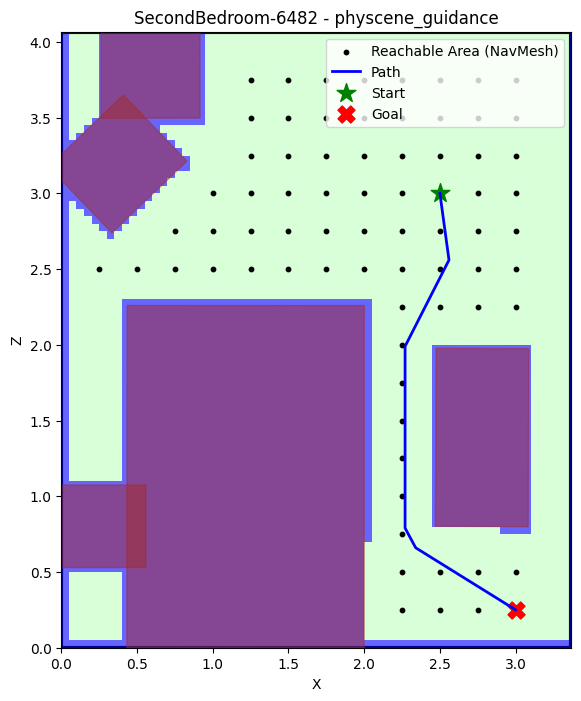
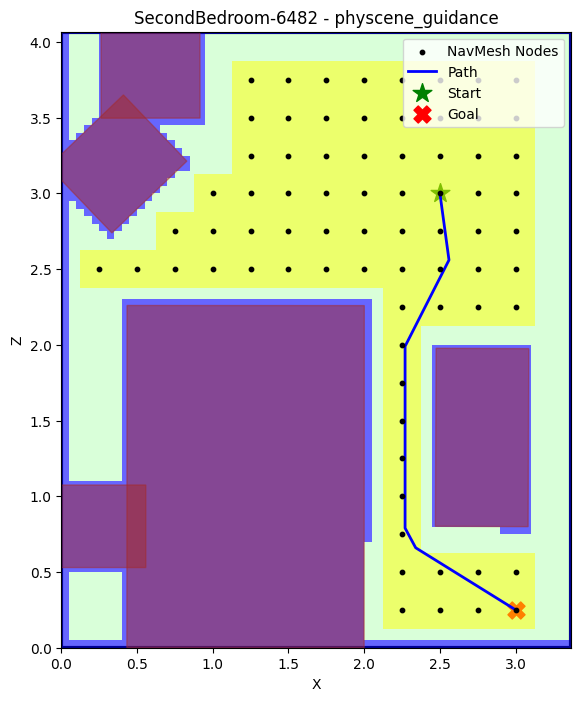
update

Changed region(s): [[0.1239, 0.0599, 0.9604, 0.8987]]

diff --git a/plot_path.py b/plot_path.py
@@ -186,9 +186,14 @@ for folder in folders:
         
     # Also plot the valid positions if desired
     if valid_positions:
+        # Draw the 0.25m x 0.25m Walkable Area cells
+        for p in valid_positions:
+            rect = patches.Rectangle((p['x'] - 0.125, p['z'] - 0.125), 0.25, 0.25, linewidth=0, facecolor='yellow', alpha=0.5, zorder=2)
+            ax.add_patch(rect)
+            
         rx = [p['x'] for p in valid_positions]
         rz = [p['z'] for p in valid_positions]
-        ax.scatter(rx, rz, c='black', s=10, label='Reachable Area (NavMesh)')
+        ax.scatter(rx, rz, c='black', s=10, label='NavMesh Nodes', zorder=3)
         
     # Plot path
     if path_points: